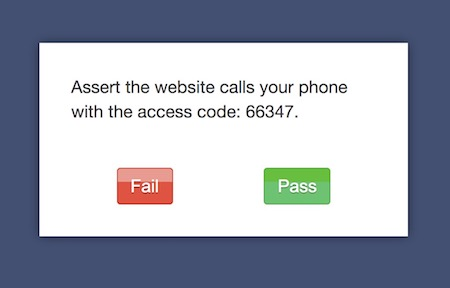
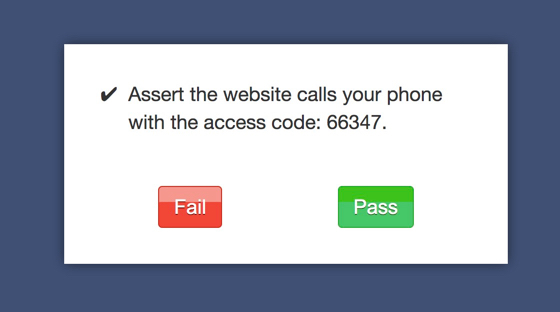
Rewrite to support multiple assertions per single assertManual.

diff --git a/src/DrupalTest/EndToEndTestCase.php b/src/DrupalTest/EndToEndTestCase.php
@@ -591,11 +591,26 @@ EOD;
 
 .manual-test__steps {
     margin-bottom: 1.5em;
+    list-style-position: inside;
+    padding-left: 0;
 }
 
 .manual-test__assertion {
     font-size: 1.1em;
     margin-bottom: 2.5em;
+    list-style: none;
+    padding: 0;
+}
+
+.manual-test__assertion li {
+    padding-left: 1.4em;
+    position: relative;
+}
+
+.manual-test__assertion li:before {
+    position: absolute;
+    left: 0;
+    content: "✔ ";
 }
 
 .manual-test__buttons {
@@ -664,10 +679,15 @@ CSS;
     $manualTestMarkup = [];
     $markdown = new \Parsedown();
     if ($prerequisite_steps) {
-      $prerequisite_steps = array_map([$markdown, 'text'], $prerequisite_steps);
+      $prerequisite_steps = array_map([$markdown, 'line'], $prerequisite_steps);
       $manualTestMarkup[] = '<ol class="manual-test__steps"><li>' . implode('</li><li>', $prerequisite_steps) . '</ol>';
     }
-    $manualTestMarkup[] = '<div class="manual-test__assertion">' . $markdown->text($assertion) . '</div>';
+    if (!is_array($assertion)) {
+      $assertion = [$assertion];
+    }
+    $assertion = array_map([$markdown, 'line'], $assertion);
+    $manualTestMarkup[] = '<ul class="manual-test__assertion"><li>' . implode('</li><li>', $assertion) . '</ul>';
+
     $manualTestMarkup = implode('', $manualTestMarkup);
 
     $this->injectCssStyles($this->getManualAssertUICssStyles());

diff --git a/documentation/test-examples/EndToEnd/InteractiveEndToEndTest.php b/documentation/test-examples/EndToEnd/InteractiveEndToEndTest.php
@@ -1,0 +1,35 @@
+<?php
+
+use AKlump\DrupalTest\EndToEndTestCase;
+
+/**
+ * These are used to generate the documentation examples.
+ */
+class InteractiveEndToEndTest extends EndToEndTestCase {
+
+  public function testPhoneReceivedAccessCode() {
+    $this->assertManual('Assert the website calls your phone with the access code: 66347.');
+  }
+
+  public function testPhoneReceivedAccessCode2() {
+    $this->assertManual([
+      'Assert the website calls your phone',
+      'Assert the phone reads the access code: 66347.',
+      'Assert robot repeats the number',
+    ]);
+  }
+
+  public function testPhoneReceivedAccessCode3() {
+    $this->assertManual([
+      'Assert the website calls your phone',
+      'Assert the phone reads the access code: 66347.',
+      'Assert robot repeats the number',
+    ], [
+      'Turn on your phone.',
+      'When it rings, answer it.',
+      'Write down the access code you hear.'
+    ]);
+  }
+
+}
+

diff --git a/documentation/source/e2e--interactive.md b/documentation/source/e2e--interactive.md
@@ -16,9 +16,26 @@ When this method is called here's what the test observer will see in their brows
 
 ![Interactive Popup](images/interactive-test-1.jpg)      
 
+## Multiple Assertions
+
+If you want you may have more than one assertion by sending an array instead:
+      
+      /**
+       * @interactive
+       */
+      public function testPhoneReceivedAccessCode2() {
+        $this->assertManual([
+          'Assert the website calls your phone',
+          'Assert the phone reads the access code: 66347.',
+          'Assert robot repeats the number',
+        ]);
+      }
+      
+![Interactive Popup with Steps](images/interactive-test-2.jpg)  
+      
 ## Adding Instructions
 
-You could rewrite the above code with some instructions to the user like the following. Be aware that **markdown is supported** for the arguments passed to _::assertManual_.  This is very much related to [manual tests](@manual), in fact it's a hybridization of end to end and manual tests.
+You could rewrite the above code with some instructions to the user like the following. Take note that **markdown is supported** for the arguments passed to _::assertManual_.  This is very much related to [manual tests](@manual), in fact it's a hybridization of end to end and manual tests.
 
       /**
        * @interactive
@@ -33,7 +50,7 @@ You could rewrite the above code with some instructions to the user like the fol
 
 And it will render like so.
 
-![Interactive Popup with Steps](images/interactive-test-2.jpg)  
+![Interactive Popup with Steps](images/interactive-test-3.jpg)  
 
 ## Test Configuration
 
